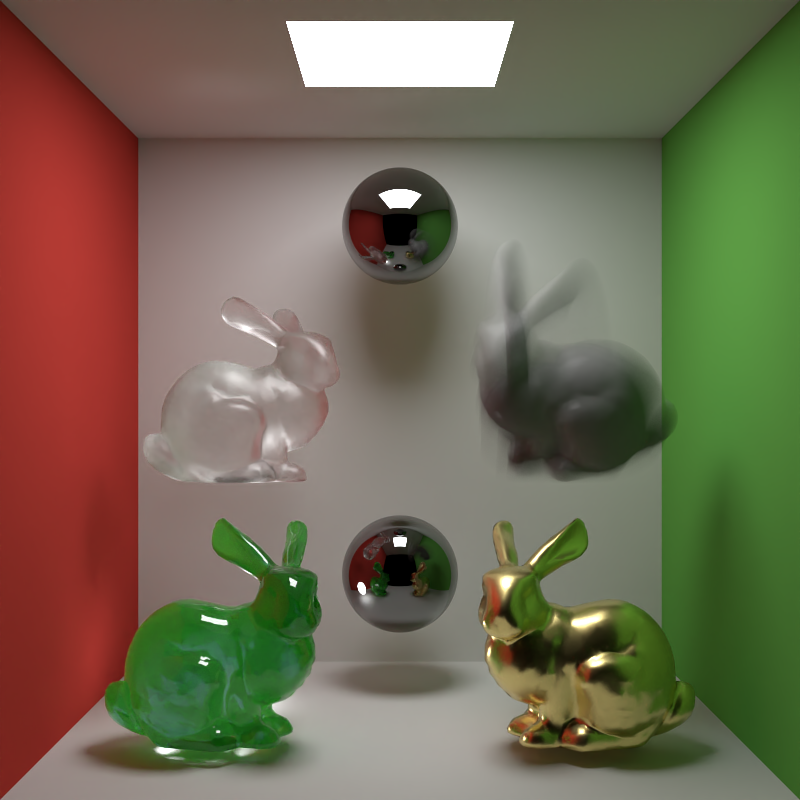
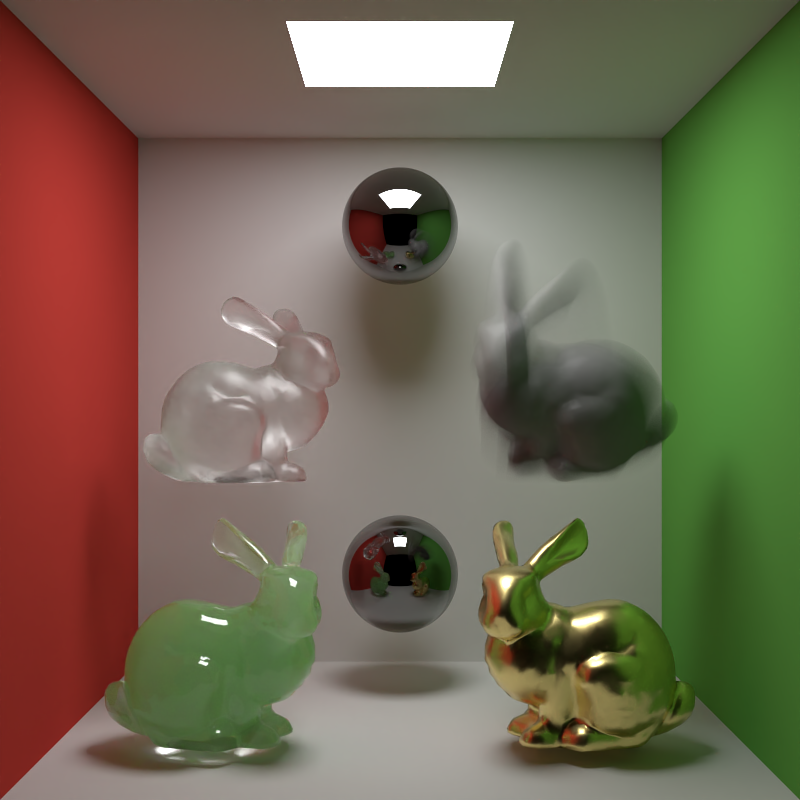
fix: fix wrong accounting for medium Le

diff --git a/src/materials/proceduralMedium.cpp b/src/materials/proceduralMedium.cpp
@@ -151,7 +151,7 @@ namespace gnd {
             float emissionStrength = 0.0f;
             if (m_invertEmission) emissionStrength = std::clamp(m_emissionOffset - noiseValue, 0.0f, 1.0f);
             else emissionStrength = std::clamp(noiseValue - m_emissionOffset, 0.0f, 1.0f);
-            
+
             if (emissionStrength <= 0.0f) return Color3f(0.0f);
 
             float temp = Lerp(emissionStrength, m_temperatureMin, m_temperatureMax);
@@ -196,9 +196,10 @@ namespace gnd {
                         mi.phase = arena.create<HenyeyGreensteinPhaseFunction>(m_g);
 
                         Color3f local_sigma_t = m_base_sigma_t * localDensity;
-                        Color3f local_sigma_s = m_base_sigma_s * localDensity;
+                        mi.sigma_a = m_base_sigma_a * localDensity;
+                        mi.sigma_s = m_base_sigma_s * localDensity;
 
-                        return local_sigma_s / local_sigma_t[channel];
+                        return Color3f(1.0f) / local_sigma_t[channel];
                     }
                 }
             }

diff --git a/src/integrators/volPath.cpp b/src/integrators/volPath.cpp
@@ -42,15 +42,17 @@ namespace gnd {
                 if (r.medium) {
                     tp *= r.medium->sample(r, sampler, arena, mi);
                 }
-                if (tp.isBlack()) break;
 
                 // Volumetric scattering
                 if (mi.isValid()) {
                     // Volumetric emission
                     Color3f emission = mi.medium->Le(mi.p);
                     if (!emission.isBlack()) {
-                        L += tp * emission;
+                        L += tp * mi.sigma_a * emission;
                     }
+
+                    tp *= mi.sigma_s;
+                    if (tp.isBlack()) break;
 
                     // Volume NEE
                     float lightSelectPdf = 1.0f / scene.getEmitters().size();

diff --git a/src/materials/heterogeneous.cpp b/src/materials/heterogeneous.cpp
@@ -343,8 +343,9 @@ namespace gnd {
                                 mi.phase = arena.create<HenyeyGreensteinPhaseFunction>(m_g);
 
                                 Color3f local_sigma_t = m_base_sigma_t * localDensity;
-                                Color3f local_sigma_s = m_base_sigma_s * localDensity;
-                                return local_sigma_s / local_sigma_t[channel];
+                                mi.sigma_a = m_base_sigma_a * localDensity;
+                                mi.sigma_s = m_base_sigma_s * localDensity;
+                                return Color3f(1.0f) / local_sigma_t[channel];
                             }
                         }
                     }

diff --git a/src/materials/homogeneous.cpp b/src/materials/homogeneous.cpp
@@ -54,10 +54,9 @@ namespace gnd {
                 mi.p = ray.o + ray.d * t;
                 mi.wo = -ray.d;
                 mi.medium = this;
-                
                 mi.phase = arena.create<HenyeyGreensteinPhaseFunction>(m_g);
-
-                return (Tr_val * m_sigma_s) / pdf;
+                mi.sigma_a = m_sigma_a;
+                mi.sigma_s = m_sigma_s;
             }
 
             return Tr_val / pdf;

diff --git a/include/gianduia/materials/medium.h b/include/gianduia/materials/medium.h
@@ -16,6 +16,9 @@ namespace gnd {
         float time;
         const Medium* medium = nullptr;
 
+        Color3f sigma_a;
+        Color3f sigma_s;
+
         const PhaseFunction* phase = nullptr;
 
         bool isValid() const { return medium != nullptr; }
